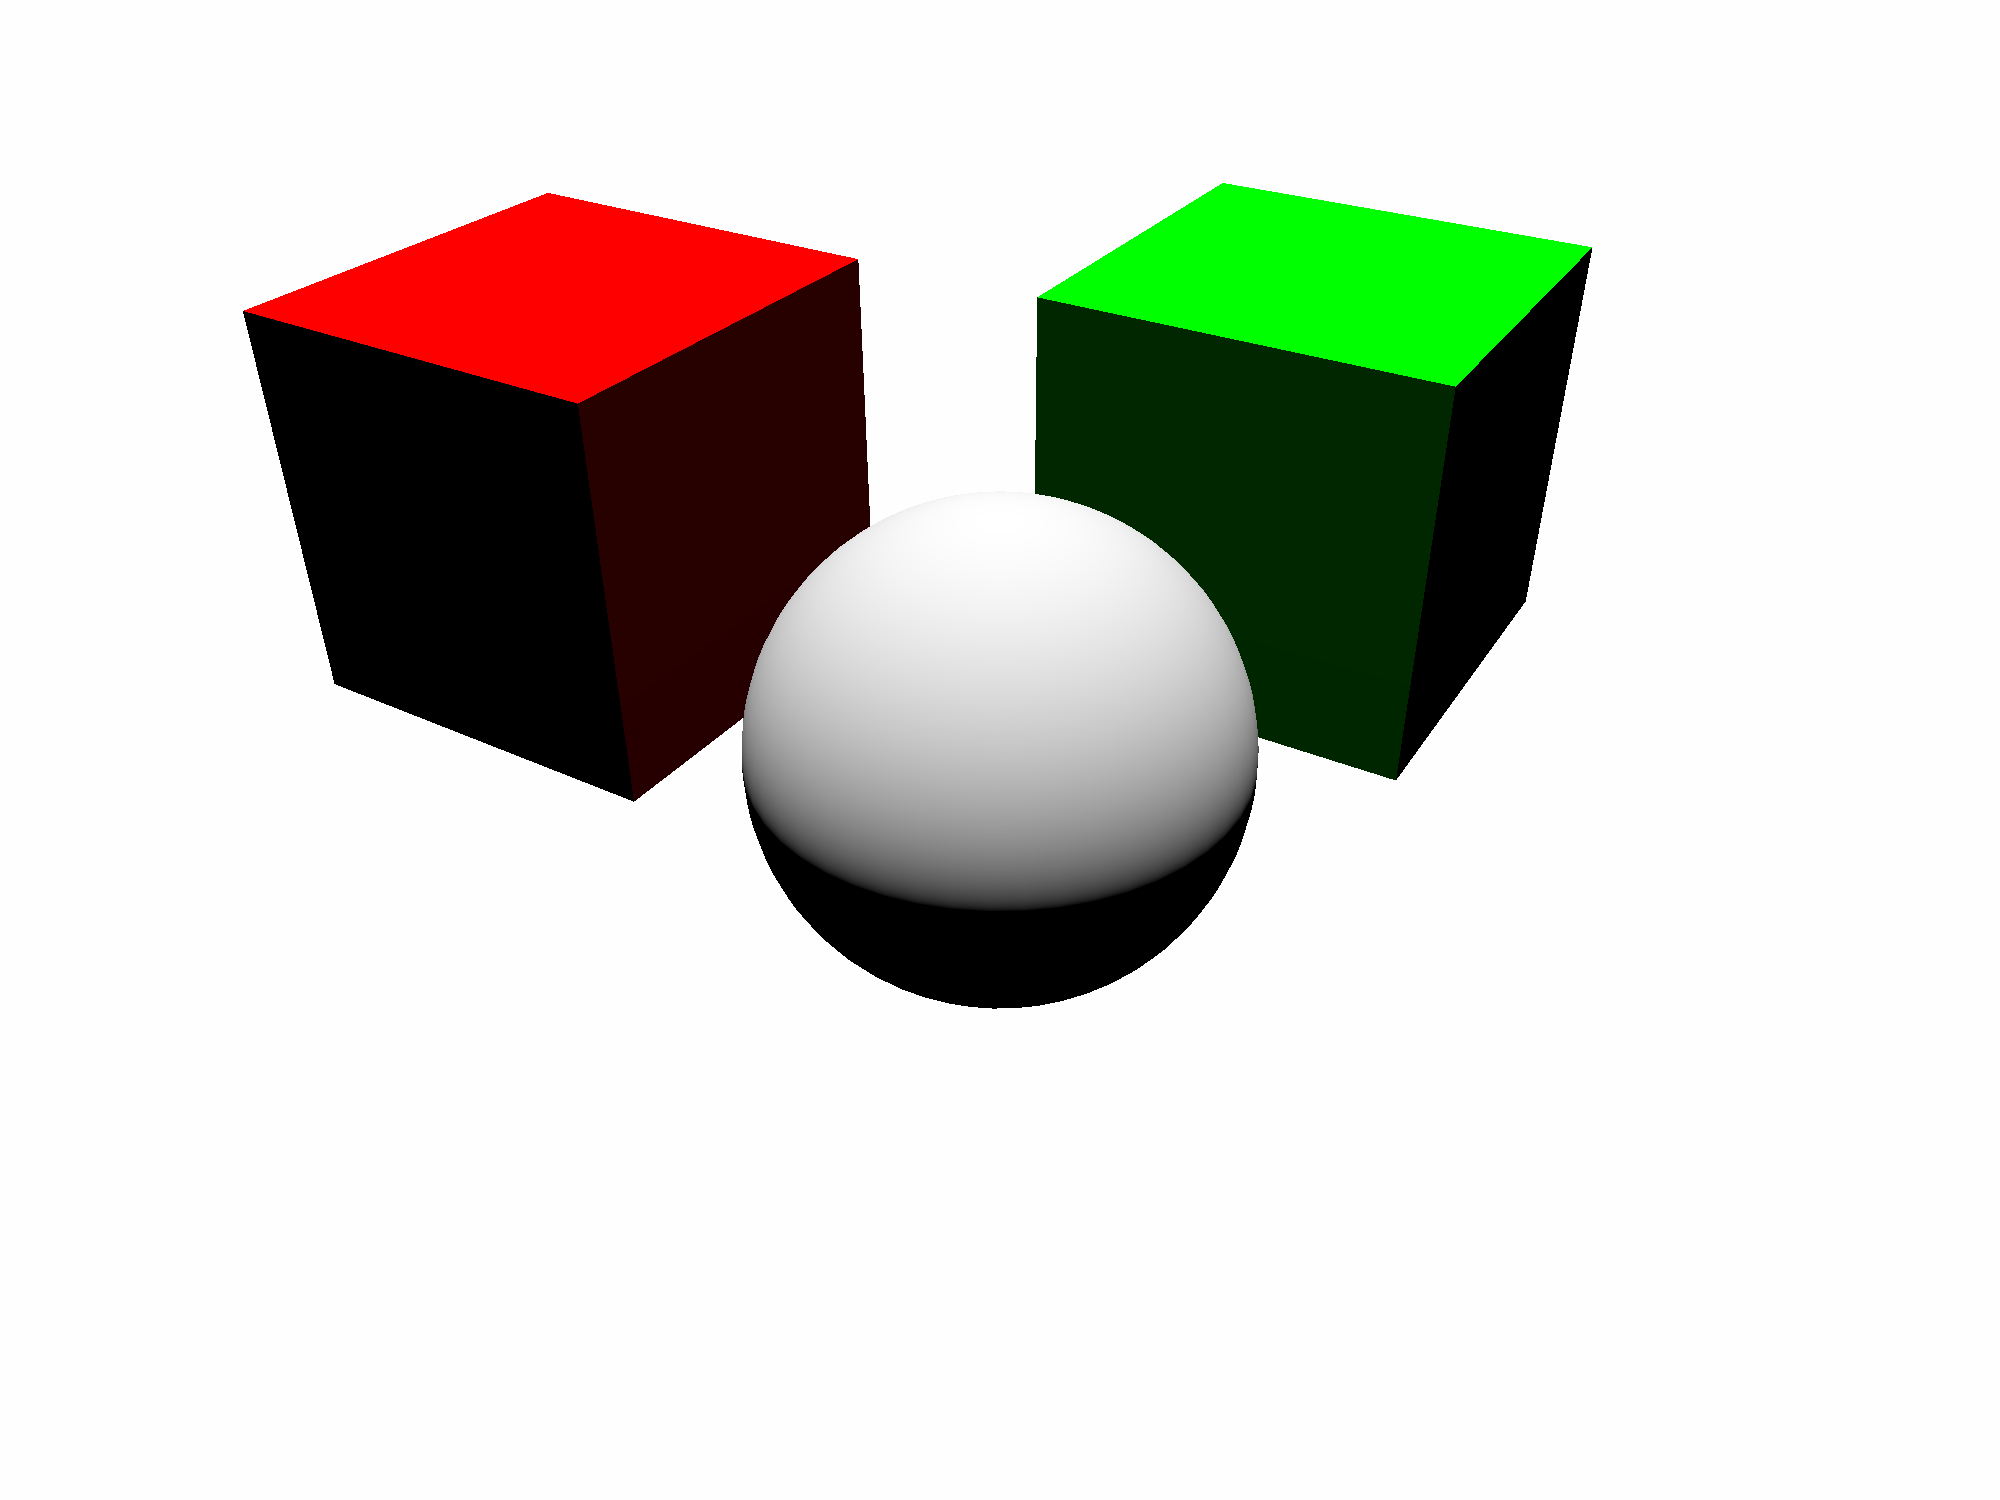
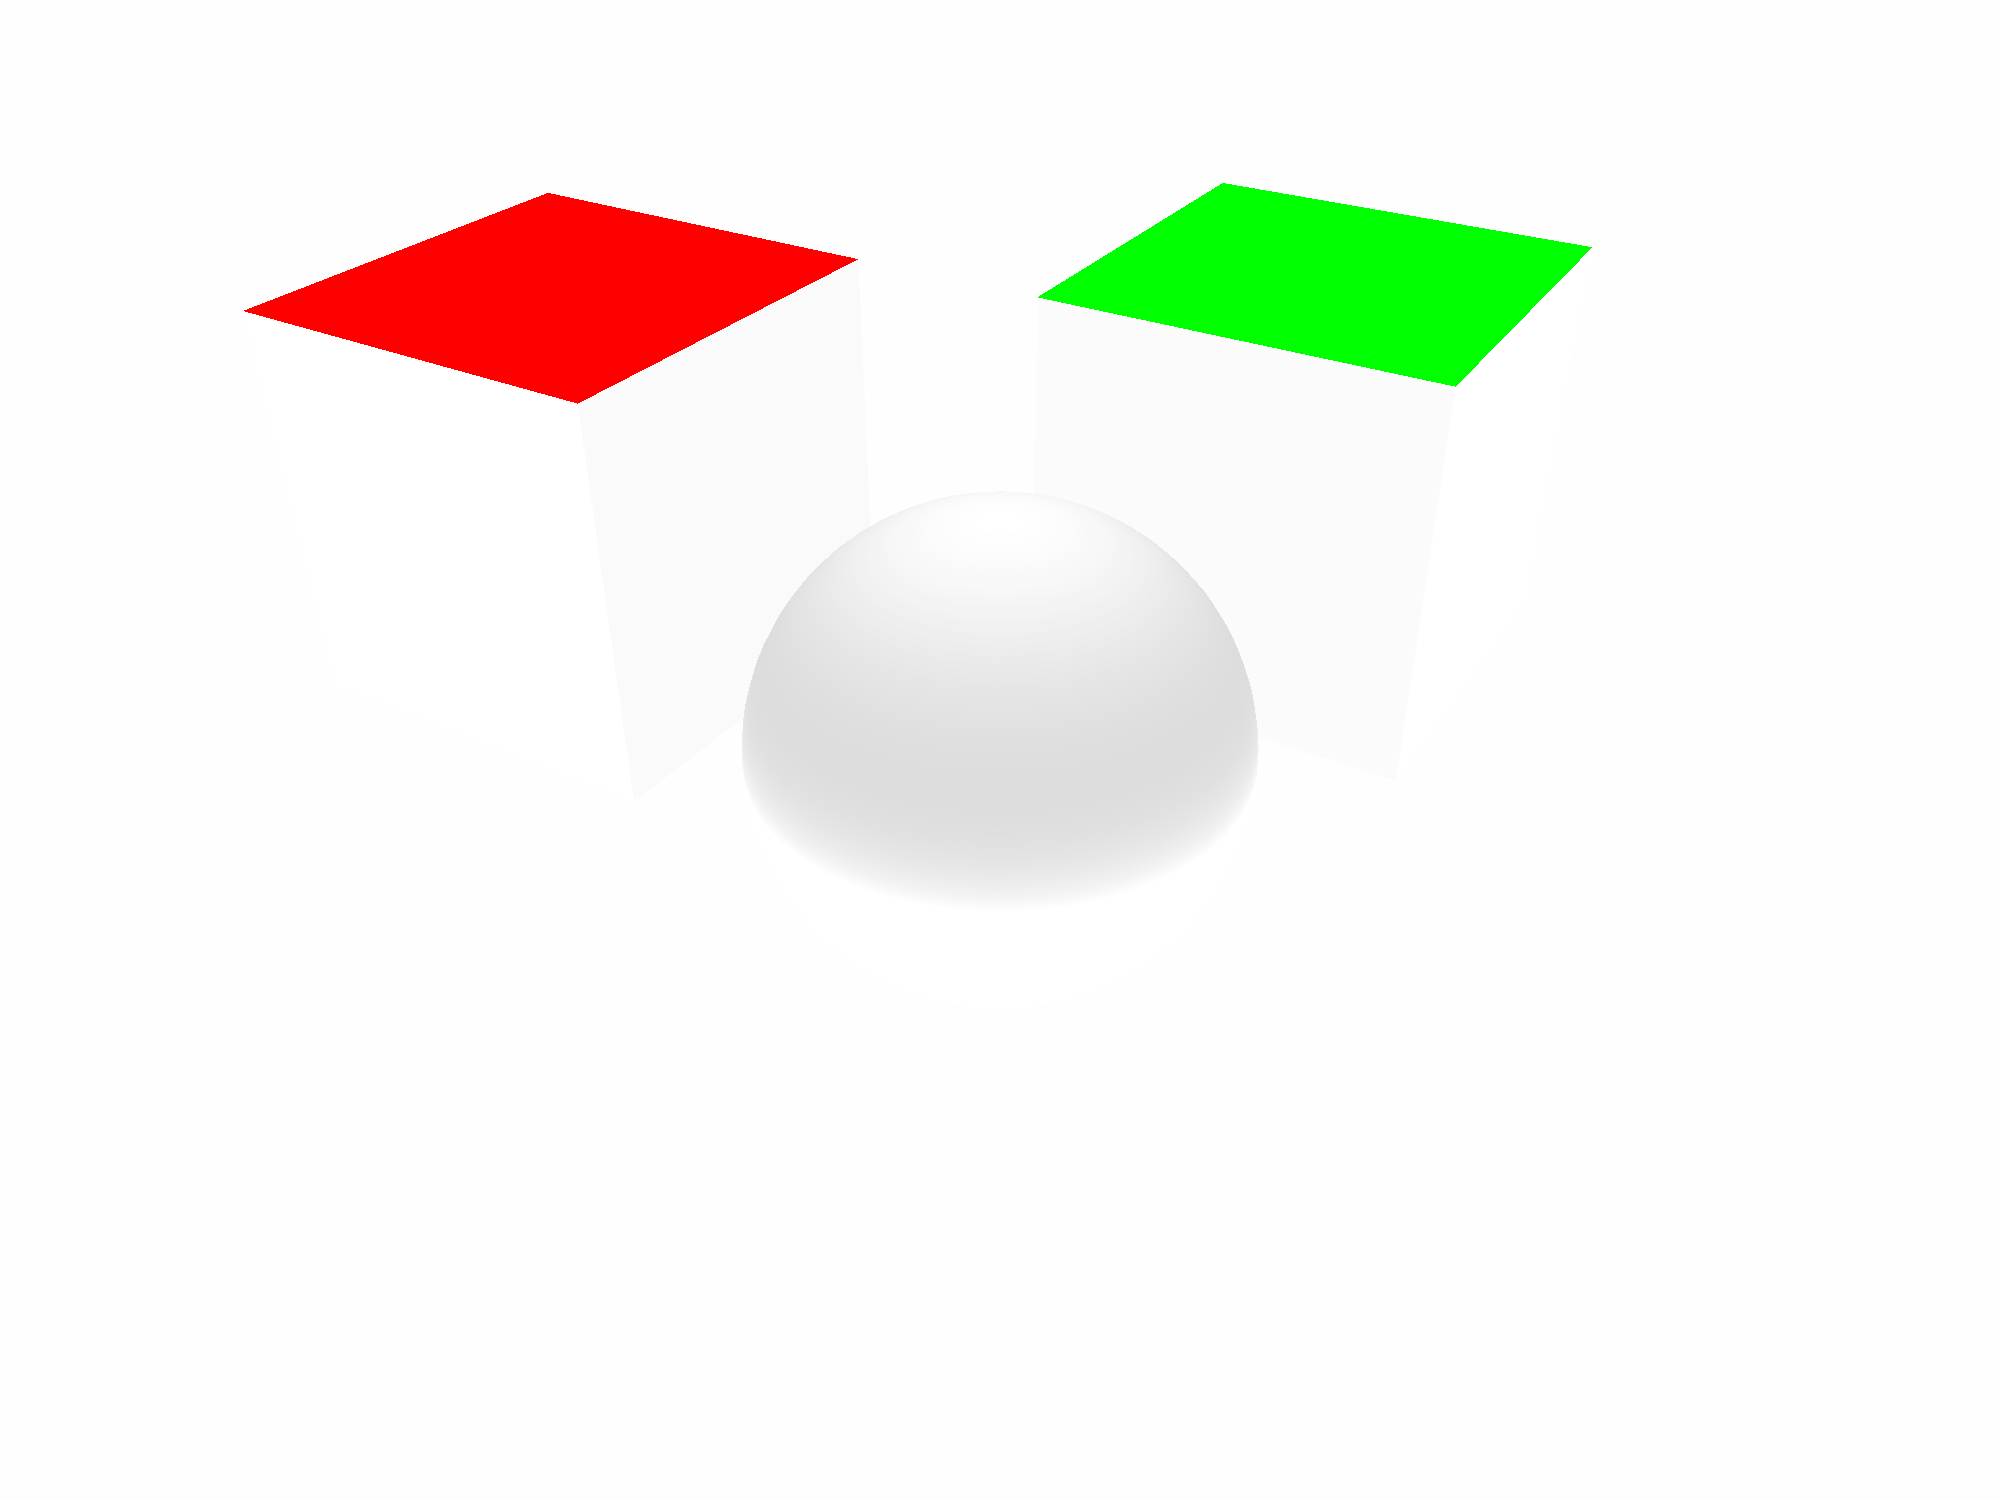
fix: lighting

Changed region(s): [[0.124, 0.1533, 0.806, 0.6747]]

diff --git a/examples/shadow/src/main.rs b/examples/shadow/src/main.rs
@@ -7,7 +7,10 @@ use threerender::math::{Quat, Transform, Vec3};
 use threerender::mesh::{Plane, Sphere, Square};
 use threerender::renderer::Renderer;
 use threerender::traits::entity::EntityDescriptor;
-use threerender::{CameraStyle, LightBaseStyle, LightStyle, RendererBuilder, ShadowStyle};
+use threerender::{
+    CameraStyle, LightBaseStyle, LightStyle, RendererBuilder, ShadowOptions, ShadowStyle,
+    ShadowType,
+};
 
 #[derive(Default)]
 struct State {
@@ -83,6 +86,10 @@ fn build() -> RendererBuilder {
     renderer_builder.set_width(width);
     renderer_builder.set_height(height);
 
+    renderer_builder.set_shadow_options(ShadowOptions {
+        map_size: (4096, 4096),
+    });
+
     renderer_builder.set_camera(CameraStyle {
         width: width as f32,
         height: height as f32,
@@ -92,10 +99,16 @@ fn build() -> RendererBuilder {
     renderer_builder.add_light(LightStyle::with_directional(
         "directional".to_owned(),
         LightBaseStyle {
-            position: Vec3::new(0., 10.0, 5.0),
+            position: Vec3::new(0., 60.0, 10.0),
             ..Default::default()
         },
-        Some(ShadowStyle::default()),
+        Some(ShadowStyle {
+            far: 1000.,
+            fov: 65.,
+            shadow_type: ShadowType::PCSS,
+            opacity: 0.8,
+            ..Default::default()
+        }),
     ));
 
     let plane = Rc::new(Plane::new([0, 1, 0], None));
